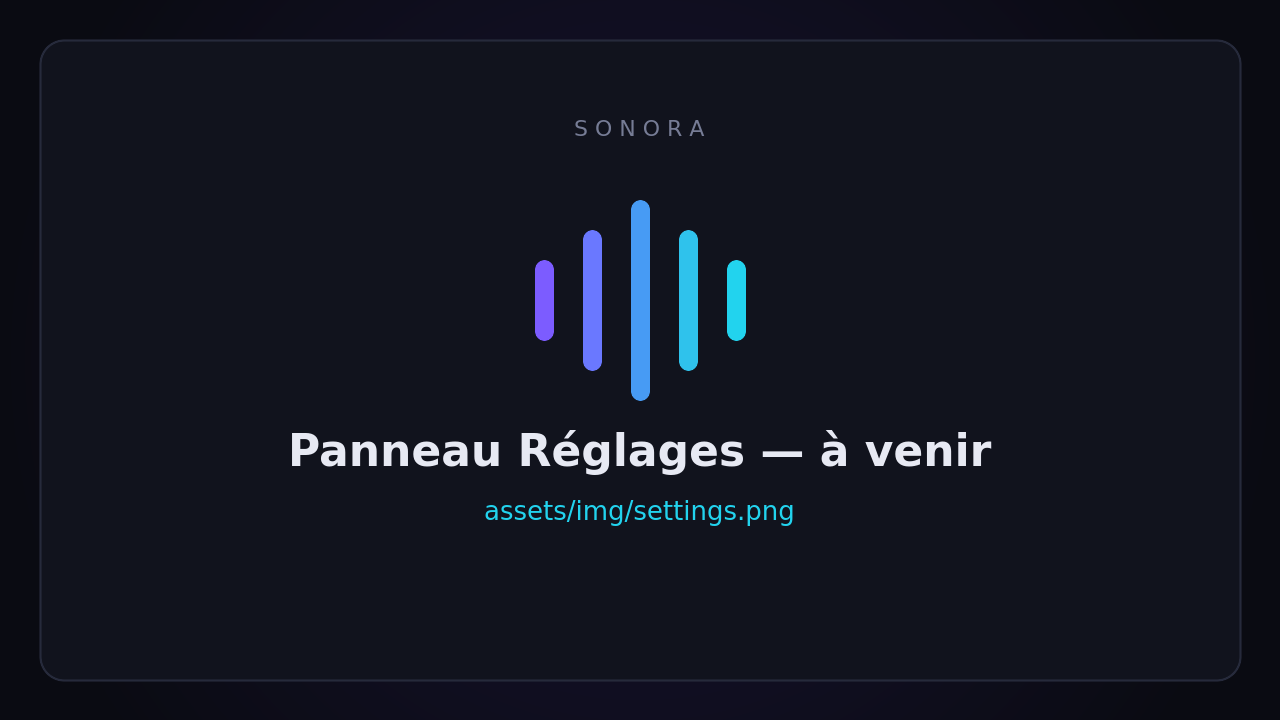
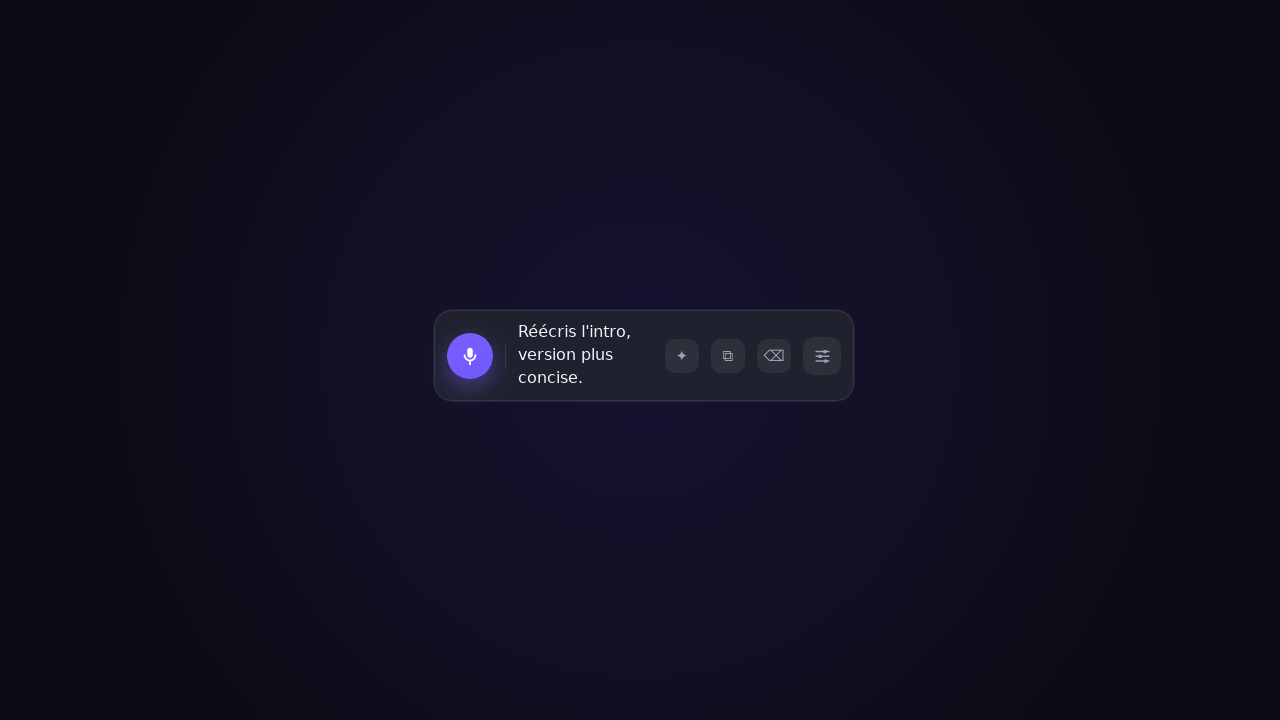
docs(site): real UI screenshots rendered from the actual app
Capture the real Sonora UI in headless WebKitGTK (same engine Tauri uses on
Linux) instead of mockups, and composite onto an on-brand backdrop:
- scripts/screenshot.js: WebKitGTK WebView -> transparent PNG snapshot.
- scripts/screenshots.sh: build + serve dist + render bar/result/settings
  states + ImageMagick compose. Run via `nix develop --command`.
- App.svelte: tiny `?shot=bar|result|settings|history` seed (inert without
  the query param) to render realistic states for capture.
- docs/assets/img/{hero,settings,docs-reglages}.png: real captures
  (listening bar w/ waveform, post-dictation bar, full settings panel).
- styles.css: portrait figure constraint; docs/index alt text + comments.
- gen-placeholders.sh: now only emits the demo poster (the others are real).

diff --git a/scripts/screenshot.js b/scripts/screenshot.js
@@ -1,0 +1,97 @@
+#!/usr/bin/env gjs
+// Render a URL in a real WebKitGTK WebView (same engine Tauri uses on Linux)
+// with a transparent background and save a PNG snapshot. Used to capture the
+// actual Sonora UI for the documentation site.
+//
+//   gjs scripts/screenshot.js <url> <out.png> [width] [height] [settleMs]
+
+imports.gi.versions.Gtk = "3.0";
+imports.gi.versions.Gdk = "3.0";
+imports.gi.versions.WebKit2 = "4.1";
+const { Gtk, Gdk, WebKit2, GLib } = imports.gi;
+
+const url = ARGV[0];
+const outPath = ARGV[1];
+const W = parseInt(ARGV[2] || "640", 10);
+const H = parseInt(ARGV[3] || "440", 10);
+const settleMs = parseInt(ARGV[4] || "900", 10);
+
+if (!url || !outPath) {
+  printerr("usage: screenshot.js <url> <out.png> [w] [h] [settleMs]");
+  imports.system.exit(2);
+}
+
+Gtk.init(null);
+
+const win = new Gtk.Window({ type: Gtk.WindowType.TOPLEVEL });
+win.set_default_size(W, H);
+win.resize(W, H);
+
+const view = new WebKit2.WebView();
+view.set_size_request(W, H);
+
+// Make the WebView background transparent so only the floating bar / panel show
+// (the rest of the page is transparent by design) — lets us composite later.
+try {
+  const rgba = new Gdk.RGBA();
+  rgba.parse("rgba(0,0,0,0)");
+  view.set_background_color(rgba);
+} catch (e) {
+  printerr("warn: could not set transparent bg: " + e);
+}
+
+win.add(view);
+win.show_all();
+
+function snapshot() {
+  view.get_snapshot(
+    WebKit2.SnapshotRegion.FULL_DOCUMENT,
+    WebKit2.SnapshotOptions.TRANSPARENT_BACKGROUND,
+    null,
+    (v, res) => {
+      try {
+        const surface = view.get_snapshot_finish(res);
+        surface.flush();
+        // Preferred: cairo surface -> PNG. Fall back to GdkPixbuf if needed.
+        if (typeof surface.writeToPNG === "function") {
+          surface.writeToPNG(outPath);
+        } else {
+          const w = surface.getWidth();
+          const h = surface.getHeight();
+          const pb = Gdk.pixbuf_get_from_surface(surface, 0, 0, w, h);
+          pb.savev(outPath, "png", [], []);
+        }
+        print("wrote " + outPath);
+      } catch (e) {
+        printerr("snapshot error: " + e);
+      }
+      Gtk.main_quit();
+    },
+  );
+}
+
+let done = false;
+view.connect("load-changed", (v, ev) => {
+  if (ev !== WebKit2.LoadEvent.FINISHED || done) return;
+  done = true;
+  GLib.timeout_add(GLib.PRIORITY_DEFAULT, settleMs, () => {
+    snapshot();
+    return GLib.SOURCE_REMOVE;
+  });
+});
+
+view.connect("load-failed", (v, ev, uri, err) => {
+  printerr("load-failed: " + uri + " : " + err.message);
+  Gtk.main_quit();
+  return true;
+});
+
+view.load_uri(url);
+
+GLib.timeout_add_seconds(GLib.PRIORITY_DEFAULT, 25, () => {
+  printerr("timeout waiting for load");
+  Gtk.main_quit();
+  return GLib.SOURCE_REMOVE;
+});
+
+Gtk.main();

diff --git a/src/App.svelte b/src/App.svelte
@@ -140,13 +140,64 @@
     requestAnimationFrame(measureAndResize);
   });
 
+  /** Seed a realistic UI state for documentation screenshots (see onMount). */
+  function seedShot(mode: string) {
+    theme = "dark";
+    configured = true;
+    if (mode === "bar") {
+      recState = "listening";
+      level = 0.5;
+      finals = ["Bonjour, ceci est une démonstration de Sonora,"];
+      partial = "le texte s'écrit en temps réel.";
+      return;
+    }
+    if (mode === "result") {
+      recState = "idle";
+      autoType = true;
+      finals = ["Réécris l'intro, version plus concise."];
+      partial = "";
+      return;
+    }
+    // settings / history: open the dropdown with realistic config + data
+    autoType = true;
+    hasKey = true;
+    hasCleanupKey = true;
+    settings = {
+      provider: "gemini",
+      language: "fr",
+      cleanup_enabled: true,
+      cleanup_provider: "gemini",
+      prompts: [
+        { id: "p1", name: "Reformuler — pro", prompt: "Réécris ce texte dans un ton professionnel et concis." },
+        { id: "p2", name: "Commande terminal", prompt: "Convertis cette demande en une commande shell." },
+      ],
+    };
+    menuOpen = true;
+    menuTab = mode === "history" ? "history" : "settings";
+    if (mode === "history") {
+      history = [
+        { id: "h1", text: "Peux-tu préparer un résumé de la réunion de ce matin ?", createdAt: Date.now() - 1000 * 60 * 7 },
+        { id: "h2", text: "Ajouter une section FAQ à la documentation du projet.", createdAt: Date.now() - 1000 * 60 * 60 * 3 },
+        { id: "h3", text: "Réserve une salle pour la rétro de vendredi après-midi.", createdAt: Date.now() - 1000 * 60 * 60 * 27 },
+      ];
+    }
+  }
+
   onMount(() => {
-    void invoke<string>("app_ready").then((v) => console.log("backend ready:", v));
-    void loadHistory().then((h) => (history = h));
-    void getAutoType().then((v) => (autoType = v));
-    void getTheme().then((v) => (theme = v));
-    void loadSettings();
-    void refreshConfigured();
+    // Docs screenshots: `?shot=bar|result|settings|history` renders the real UI
+    // in a fixed, realistic state for captures. Completely inert without the
+    // query param, so it never affects the shipped app.
+    const shotMode = new URLSearchParams(location.search).get("shot");
+    if (shotMode) seedShot(shotMode);
+
+    if (!shotMode) {
+      void invoke<string>("app_ready").then((v) => console.log("backend ready:", v));
+      void loadHistory().then((h) => (history = h));
+      void getAutoType().then((v) => (autoType = v));
+      void getTheme().then((v) => (theme = v));
+      void loadSettings();
+      void refreshConfigured();
+    }
 
     const mq = window.matchMedia("(prefers-color-scheme: dark)");
     systemDark = mq.matches;

diff --git a/docs/index.html b/docs/index.html
@@ -66,10 +66,11 @@
           </div>
           <p class="hero-meta">macOS · Windows · Linux — un binaire léger (Tauri). Gratuit &amp; MIT.</p>
 
-          <!-- HERO SCREENSHOT — pour mettre votre vraie capture, écrasez simplement
-               le fichier docs/assets/img/hero.png (même nom, ratio 16:9). Rien d'autre à changer. -->
+          <!-- HERO SCREENSHOT — capture réelle de l'UI (rendu WebKitGTK) générée par
+               `nix develop --command bash scripts/screenshots.sh`. Régénérez avec ce
+               script, ou écrasez docs/assets/img/hero.png par votre propre capture. -->
           <div class="shot">
-            <img src="assets/img/hero.png" alt="Aperçu de la barre Sonora en action" width="1280" height="720" />
+            <img src="assets/img/hero.png" alt="La barre Sonora pendant une dictée, avec waveform" width="1280" height="720" />
           </div>
         </div>
       </section>
@@ -230,10 +231,10 @@
             </div>
           </div>
 
-          <!-- SETTINGS SCREENSHOT — pour mettre votre vraie capture, écrasez simplement
-               le fichier docs/assets/img/settings.png (même nom, ratio 16:9). -->
+          <!-- WORKFLOW SCREENSHOT — capture réelle de la barre après dictée (boutons
+               reformuler / copier / effacer), générée par scripts/screenshots.sh. -->
           <div class="shot" style="max-width: 920px; margin: 44px auto 0">
-            <img src="assets/img/settings.png" alt="Panneau Réglages de Sonora" width="1280" height="720" />
+            <img src="assets/img/settings.png" alt="La barre Sonora après dictée, avec les actions reformuler, copier et effacer" width="1280" height="720" />
           </div>
         </div>
       </section>

diff --git a/docs/docs.html b/docs/docs.html
@@ -183,10 +183,11 @@ sudo apt install xdotool</code></pre>
 
           <!-- REGLAGES -->
           <h2 id="reglages" class="anchor-h">Tous les réglages</h2>
-          <!-- SCREENSHOT DOC — écrasez docs/assets/img/docs-reglages.png par votre capture du panneau Réglages. -->
-          <figure>
+          <!-- SCREENSHOT DOC — capture réelle du panneau Réglages (rendu WebKitGTK),
+               générée par scripts/screenshots.sh. -->
+          <figure class="portrait">
             <div class="shot">
-              <img src="assets/img/docs-reglages.png" alt="Panneau Réglages de Sonora" width="1280" height="720" />
+              <img src="assets/img/docs-reglages.png" alt="Panneau Réglages de Sonora" loading="lazy" />
             </div>
             <figcaption>Le panneau <strong>☰ → Réglages</strong> : fournisseur, clé API, modèle, langue et options de nettoyage.</figcaption>
           </figure>

diff --git a/docs/assets/styles.css b/docs/assets/styles.css
@@ -645,6 +645,11 @@ kbd {
   color: var(--muted);
   font-size: 14px;
 }
+/* Tall portrait captures (e.g. the settings panel): keep them readable, not blown up */
+.content figure.portrait .shot {
+  max-width: 420px;
+  margin: 0 auto;
+}
 
 /* tables inside docs */
 .content table {